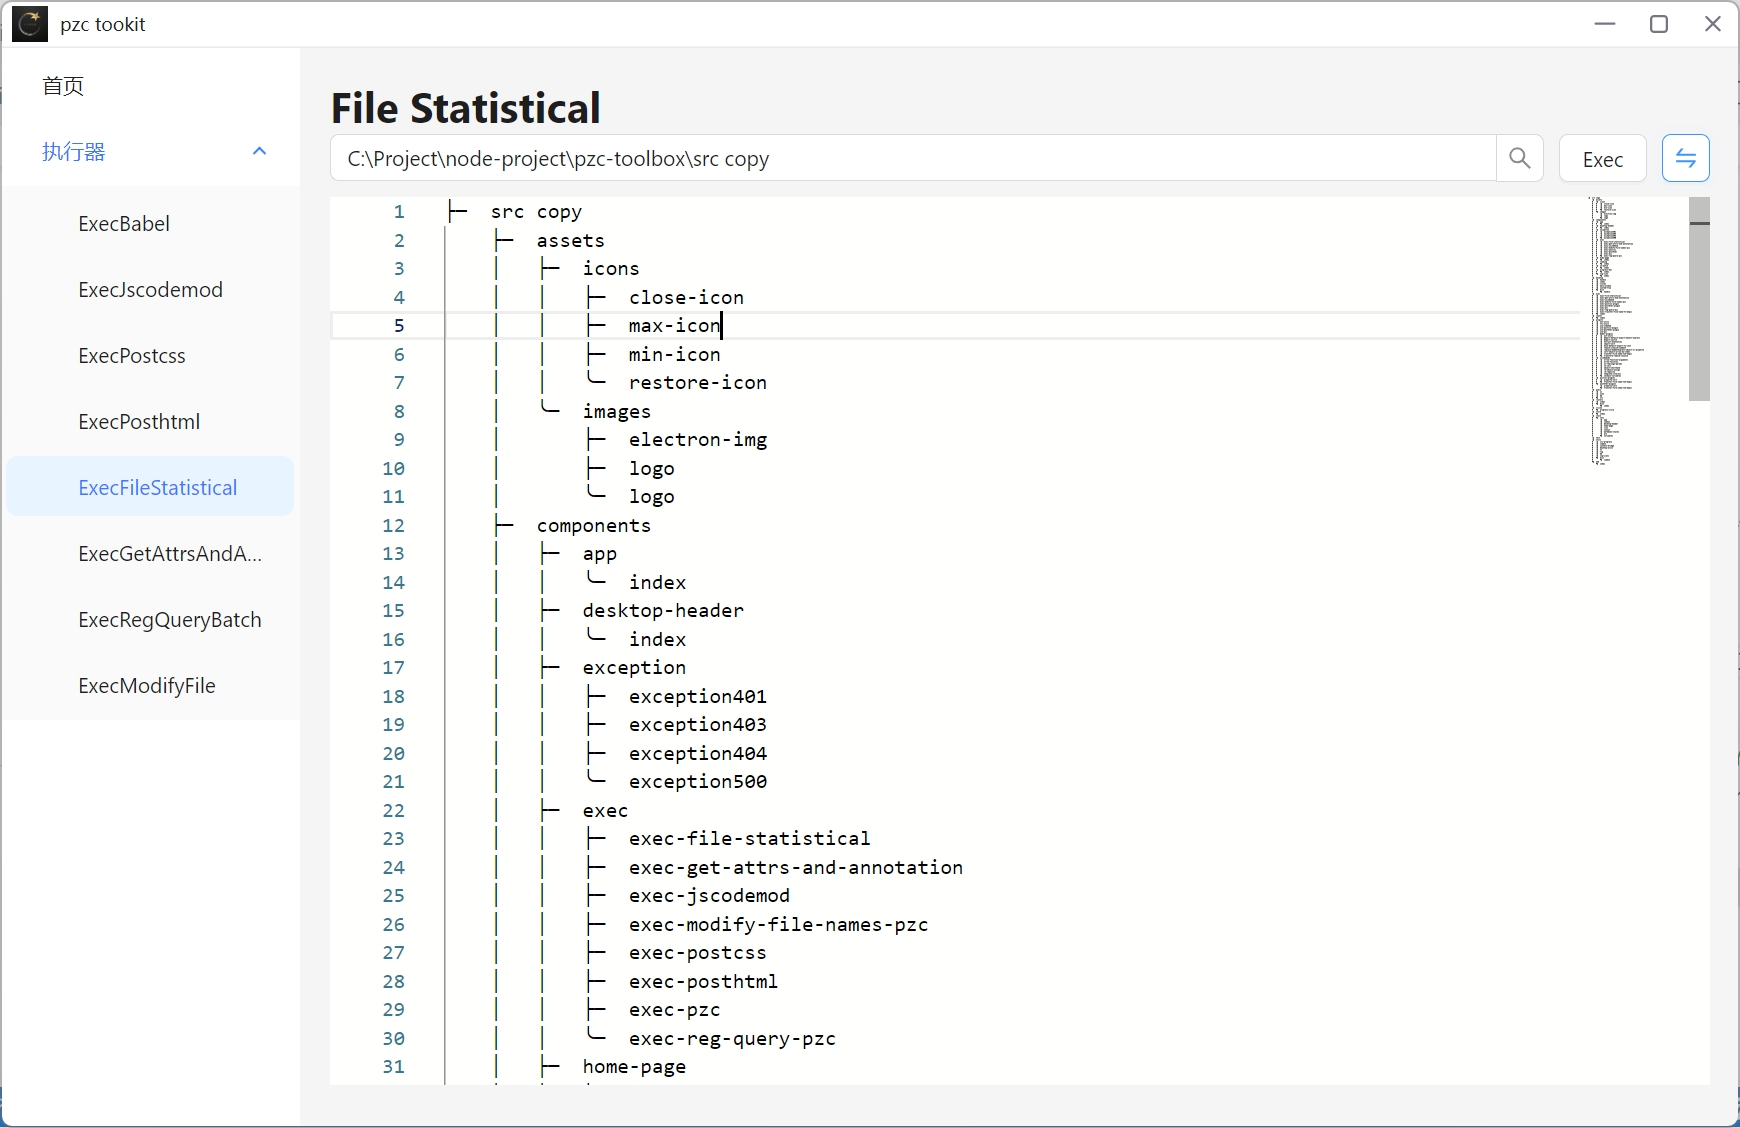
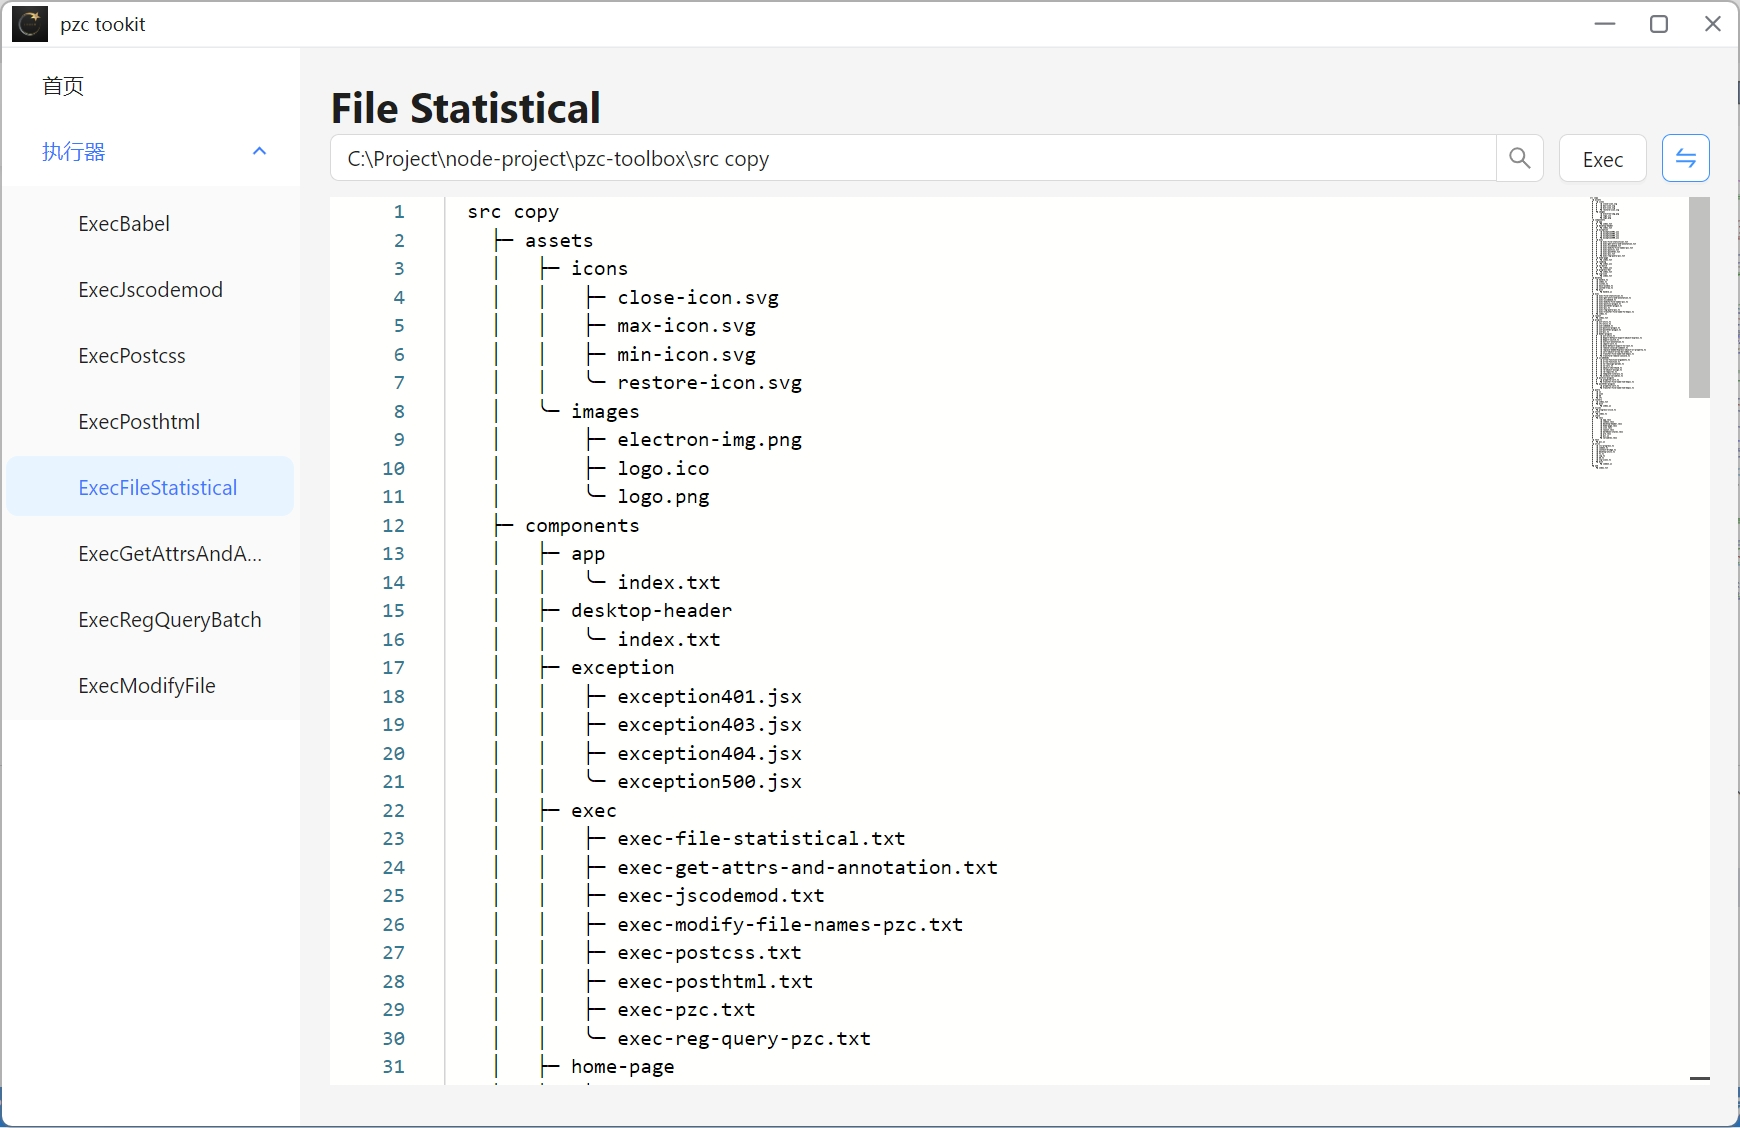
fix(utils): 修复生成目录结构树部分断层问题

diff --git a/src/utils/md.ts b/src/utils/md.ts
@@ -166,53 +166,57 @@ function createdStoreTable(
 }
 
 interface NodeWithId {
-  name: string
+  base: string
   comment?: string
   children?: NodeWithId[]
 }
 
 /**
- * TODO 重新计算族系关系
- * 生成项目文件结构树的字符串表示。
- * @param nodes 文件节点数组，每个节点包含文件名和可选的评论。
- * @param level 当前节点的层级，用于计算缩进和连接符，默认为0。
- * @returns 项目文件结构树的字符串表示。
+ * 生成项目结构树的字符串表示。
+ *
+ * @param nodes 节点数组，每个节点包含一个id和基础名称。
+ * @param level 当前处理的层级，默认为0，表示根层级。
+ * @param isLevelLastNode 一个布尔数组，表示每个层级的最后一个节点的标记，默认为空数组。
+ * @returns 返回项目结构树的字符串。
  */
 function generateProjectTree(
   nodes: NodeWithId[],
   level: number = 0,
-  isHasNextSibling = false
+  isLevelLastNode: boolean[] = []
 ): string {
   let treeString = ''
   nodes.forEach((node, index, array) => {
-    // 根据节点位置确定连接符，末尾节点使用'╰─ '，其他节点使用'├─ '
-    const connector = level !== 0 && index === array.length - 1 ? '╰─ ' : '├─ '
+    // 复制isLevelLastNode数组，以避免在递归调用中修改原始数组
+    const isLevelLastNodeClone: boolean[] = [...isLevelLastNode]
+    let connector
+    // 根据层级和当前节点是否是本层级的最后一个节点，确定连接符
+    if (level === 0) {
+      connector = '  '
+    } else {
+      connector = index === array.length - 1 ? '╰─ ' : '├─ '
+    }
     let padding = ''
-    // 根据层级计算缩进，每层缩进由'│'和三个空格组成。
-    for (let i = 0; i < level; i++) {
-      if (i == 0) {
-        padding += ' '.repeat(4)
-      } else if (i == level - 1 && !isHasNextSibling) {
+    // 根据isLevelLastNodeClone的值生成当前节点的前缀空白或竖线，以形成树的结构
+    for (const isLevelLastNode of isLevelLastNodeClone) {
+      if (isLevelLastNode) {
         padding += ' '.repeat(4)
       } else {
         padding += '│' + ' '.repeat(3)
       }
     }
-
-    // 如果节点有评论，则在文件名后添加注释。
-    // 如果有注释内容，添加注释
+    // 如果节点有注释，则在节点名称后添加注释
     if (node.comment) {
-      treeString += `${padding}${connector} ${node.name} //${node.comment}\n`
+      treeString += `${padding}${connector}${node.base} //${node.comment}\n`
     } else {
-      treeString += `${padding}${connector} ${node.name}\n`
+      treeString += `${padding}${connector}${node.base}\n`
     }
-
-    // 如果节点有子节点，则递归生成子节点的树结构。
+    // 标记当前层级的最后一个节点
+    isLevelLastNodeClone[level] = index === array.length - 1
+    // 如果节点有子节点，则递归生成子节点的树结构
     if (node.children && node.children.length > 0) {
-      treeString += generateProjectTree(node.children, level + 1, !!nodes[index + 1])
+      treeString += generateProjectTree(node.children, level + 1, isLevelLastNodeClone)
     }
   })
-
   return treeString
 }
 

diff --git a/src/exec/index.ts b/src/exec/index.ts
@@ -82,7 +82,7 @@ export class Exec implements ExecInterface {
       }
     })
     const trees = buildTree(treeData, 'filePath', 'dir')
-    const result = pickProperties(trees, ['name', 'ext', 'dir', 'children'])
+    const result = pickProperties(trees, ['base', 'dir', 'children'])
     const resultJson = JSON.stringify(result, null, 2)
     const resultMd = mdUtils.generateProjectTree(result)
     return { resultJson, resultMd }

diff --git a/src/exec/exec-file-statistical.ts b/src/exec/exec-file-statistical.ts
@@ -37,3 +37,4 @@ export function test() {
   const outputPath = path.join('src/query/json/files-group.json')
   writeFile(outputPath, result)
 }
+// test()
